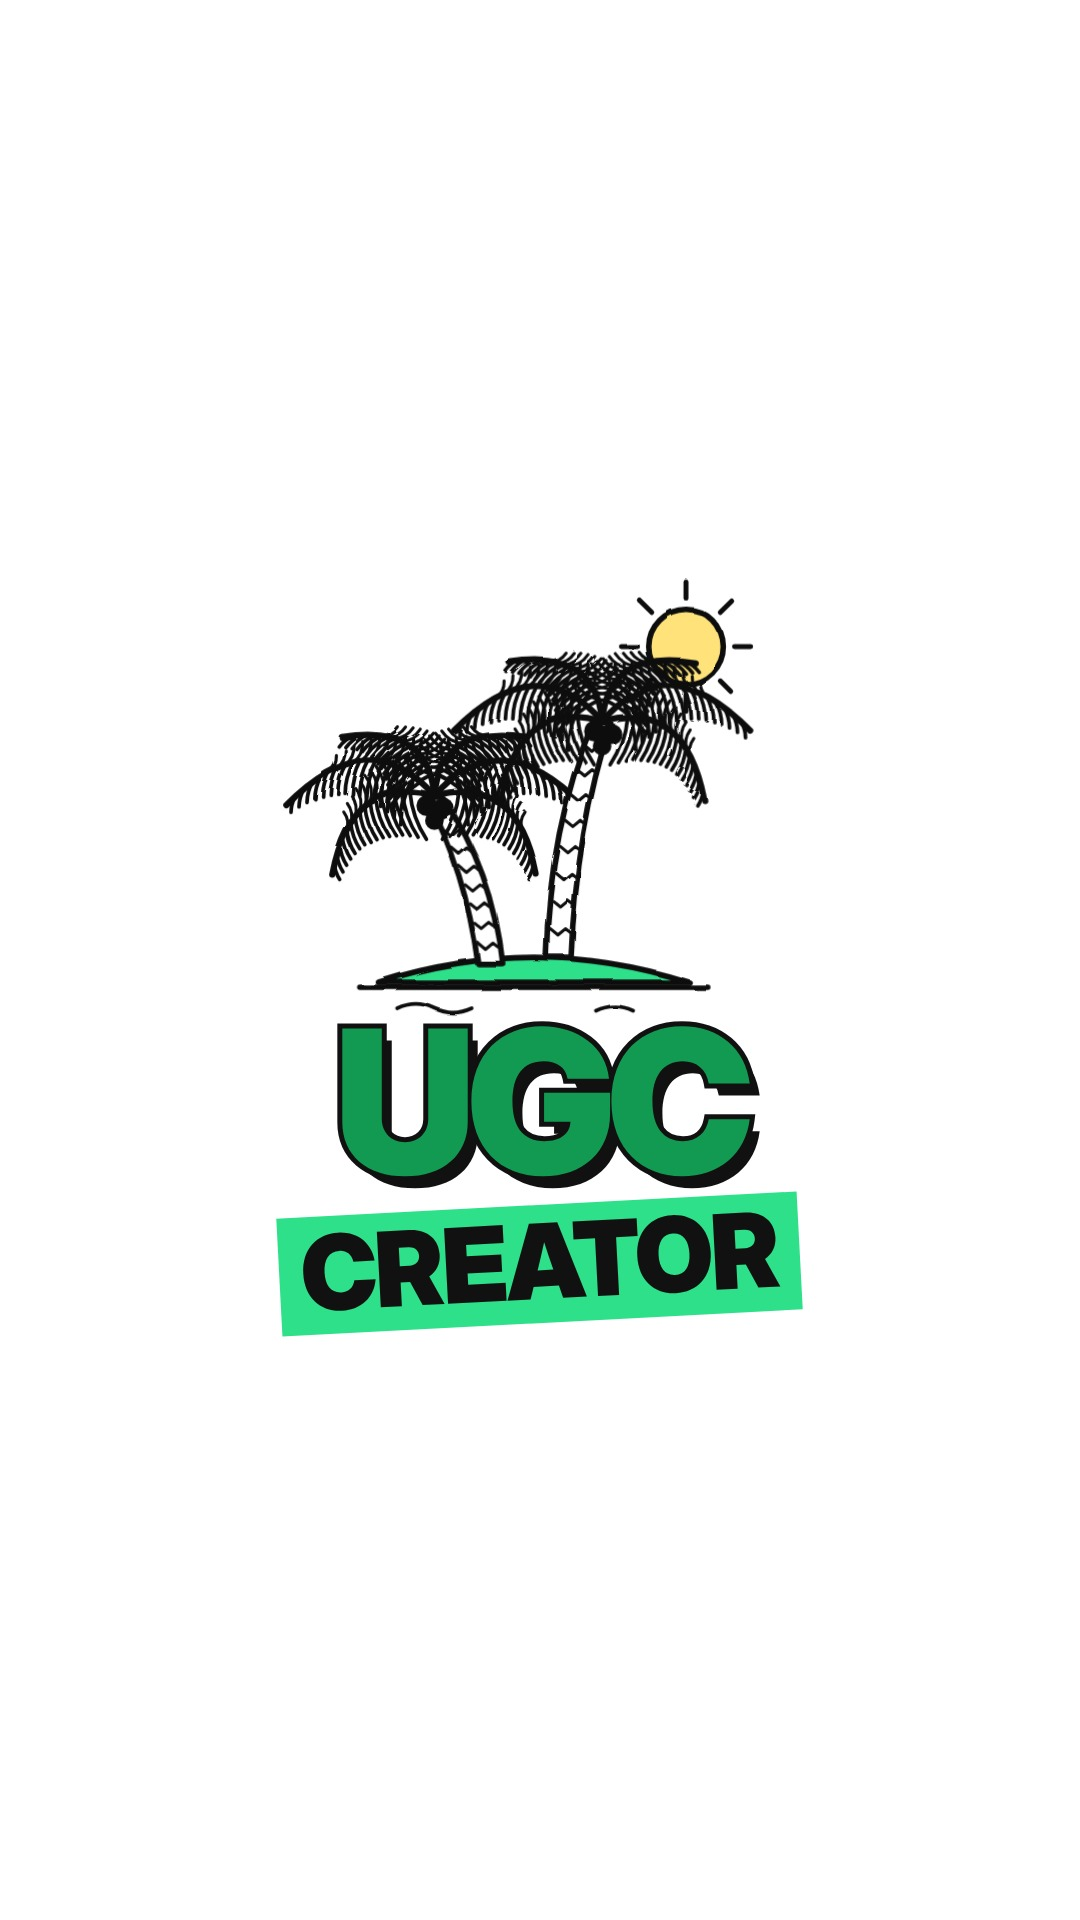
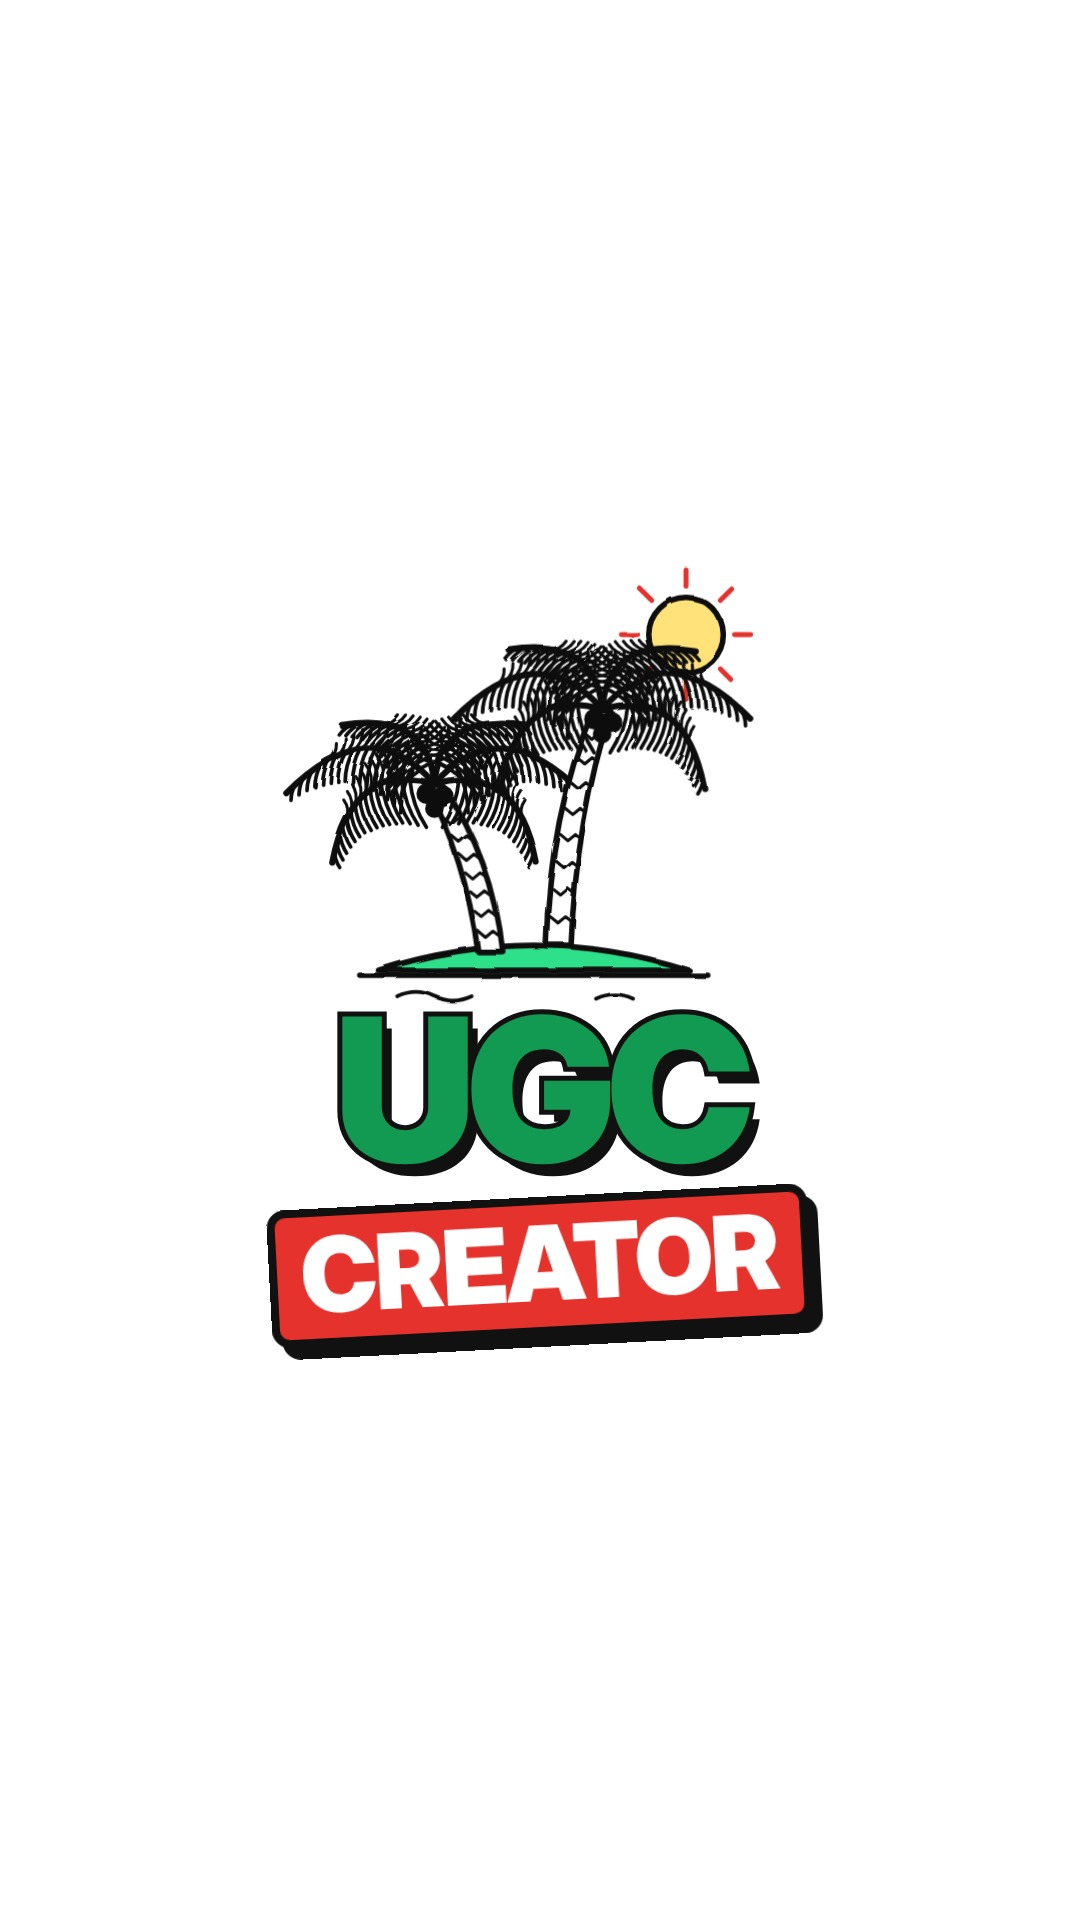
Highlight covers: white design with red tags for all three topics
Claude-Session: https://claude.ai/code/session_01XWHiAuJ5usg3NqhhkBZ2QK

Changed region(s): [[0.2444, 0.2812, 0.7639, 0.7188]]

diff --git a/scripts/render_covers.py b/scripts/render_covers.py
@@ -6,7 +6,7 @@ import sys
 from pathlib import Path
 from playwright.sync_api import sync_playwright
 
-INK, GREEN, MINT = "#111", "#139A52", "#2FE08A"
+INK, GREEN, MINT, RED = "#111", "#139A52", "#2FE08A", "#E5322D"
 COVERS = [("creators", "CREATORS"), ("affiliate", "AFFILIATE"), ("network", "JOIN US")]
 
 FILTER = """<filter id="wob" x="-5%" y="-5%" width="110%" height="110%">
@@ -88,8 +88,8 @@ def palm2(trunk_fill="#fff", island=MINT, ink=INK, waves="#111"):
     return b
 
 
-def sun():
-    rays = "".join(f'<path d="M0,-78 L0,-104" transform="rotate({a})" stroke="{INK}" stroke-width="8" stroke-linecap="round"/>' for a in range(0, 360, 45))
+def sun(ray=INK):
+    rays = "".join(f'<path d="M0,-78 L0,-104" transform="rotate({a})" stroke="{ray}" stroke-width="8" stroke-linecap="round"/>' for a in range(0, 360, 45))
     return f'<circle r="60" fill="#FFE27A" stroke="{INK}" stroke-width="9"/>{rays}'
 
 
@@ -127,7 +127,8 @@ h1 span{{background:{MINT};padding:4px 22px 10px;transform:rotate(-3deg);display
 
 
 def page_white(top, bottom):
-    """Design 3: white background, two-line label: big green outlined word + black word on a mint marker."""
+    """Design 3: white background, two-line label: big green outlined word + white word on a red tag."""
+    bs = 104 if len(bottom) <= 9 else 84
     return f"""<!doctype html><html><head><meta charset="utf-8"><style>
 *{{margin:0;box-sizing:border-box}}
 body{{width:1080px;height:1920px;background:#fff;display:flex;align-items:center;justify-content:center}}
@@ -135,11 +136,11 @@ body{{width:1080px;height:1920px;background:#fff;display:flex;align-items:center
 svg{{width:470px;height:410px;overflow:visible}}
 .t{{font-family:'Inter Display','Inter',sans-serif;font-weight:900;font-size:200px;line-height:.9;letter-spacing:-.04em;color:{GREEN};
    -webkit-text-stroke:10px {INK};paint-order:stroke fill;text-shadow:10px 12px 0 {INK};margin-top:4px}}
-.b{{font-family:'Inter Display','Inter',sans-serif;font-weight:900;font-size:104px;line-height:1;letter-spacing:-.02em;color:{INK};
-   background:{MINT};padding:4px 22px 10px;transform:rotate(-3deg);margin-top:14px}}
+.b{{font-family:'Inter Display','Inter',sans-serif;font-weight:900;font-size:{bs}px;line-height:1;letter-spacing:-.02em;color:#fff;
+   background:{RED};border:8px solid {INK};border-radius:18px;padding:6px 24px 12px;transform:rotate(-3deg);margin-top:18px;box-shadow:10px 12px 0 {INK}}}
 </style></head><body><div class="c">
 <svg viewBox="-320 -580 640 660"><defs>{FILTER}</defs><g filter="url(#wob)">
-<g transform="translate(235,-500)">{sun()}</g><g transform="translate(-10,40)">{palm2()}</g></g></svg>
+<g transform="translate(235,-500)">{sun(RED)}</g><g transform="translate(-10,40)">{palm2()}</g></g></svg>
 <div class="t">{top}</div><div class="b">{bottom}</div></div></body></html>"""
 
 
@@ -157,10 +158,11 @@ def main():
             pg.evaluate("document.fonts.ready")
             pg.screenshot(path=str(out / f"cover2-{slug}.jpg"), type="jpeg", quality=92)
             print("cover", slug)
-        pg.set_content(page_white("UGC", "CREATOR"))
-        pg.evaluate("document.fonts.ready")
-        pg.screenshot(path=str(out / "cover3-ugc-creator.jpg"), type="jpeg", quality=92)
-        print("cover ugc-creator")
+        for slug, top, bottom in (("ugc-creator", "UGC", "CREATOR"), ("affiliate", "EARN", "AFFILIATE"), ("network", "JOIN", "OUR NETWORK")):
+            pg.set_content(page_white(top, bottom))
+            pg.evaluate("document.fonts.ready")
+            pg.screenshot(path=str(out / f"cover3-{slug}.jpg"), type="jpeg", quality=92)
+            print("cover3", slug)
         b.close()
 
 
